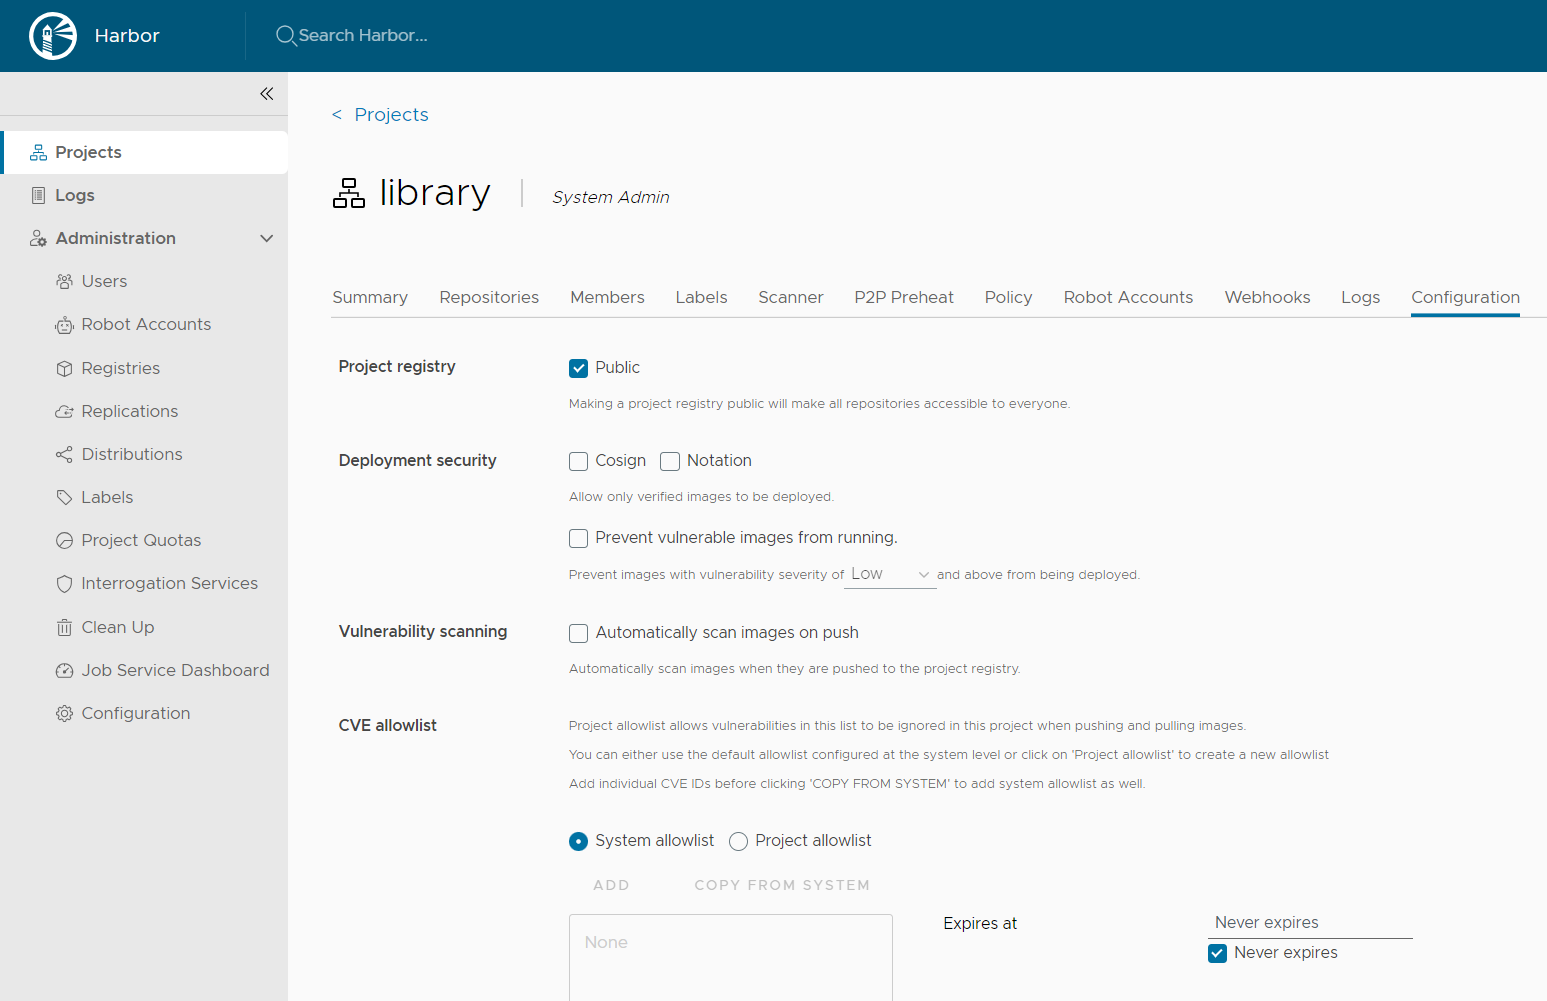
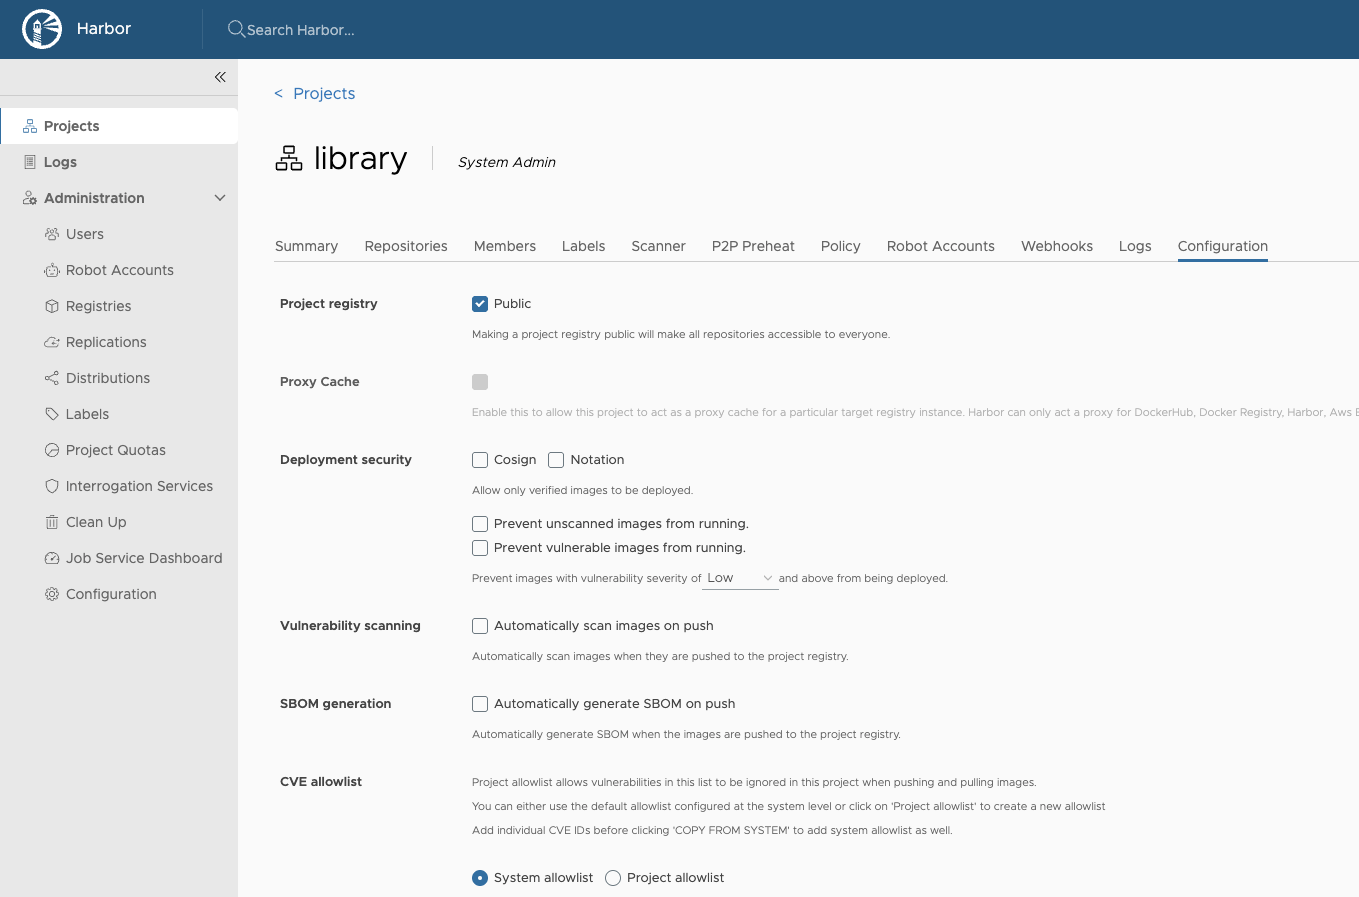
Update with separation of unscanned and vulnerable image prevention

diff --git a/docs/working-with-projects/project-configuration/_index.md b/docs/working-with-projects/project-configuration/_index.md
@@ -9,7 +9,7 @@ After the initial creation of a project, you can configure or reconfigure its pr
 1. Go to **Projects** and select a project.
 1. Select the **Configuration** tab.
 1. To make all repositories under the project accessible to everyone, select the `Public` checkbox, or deselect this checkbox to make the project private.
-1. To prevent un-signed images under the project from being pulled, select the `Prevent vulnerable images from running` checkbox.
+1. To prevent unscanned images under the project from being pulled, select the `Prevent unscanned images from running` checkbox.
 
 ![browse project](../../img/project-configuration.png)
 
@@ -26,6 +26,7 @@ You can configure projects so that images with vulnerabilities cannot be run, an
 1. Log in to the Harbor interface with an account that has at least project administrator privileges.
 1. Go to **Projects** and select a project.
 1. Select the **Configuration** tab.
+1. To prevent unscanned images under the project from being pulled, select the **Prevent unscanned images from running** checkbox.
 1. To prevent vulnerable images under the project from being pulled, select the **Prevent vulnerable images from running** checkbox.
 
    ![Prevent vulnerable images from running](../../img/prevent-vulnerable-images.png)